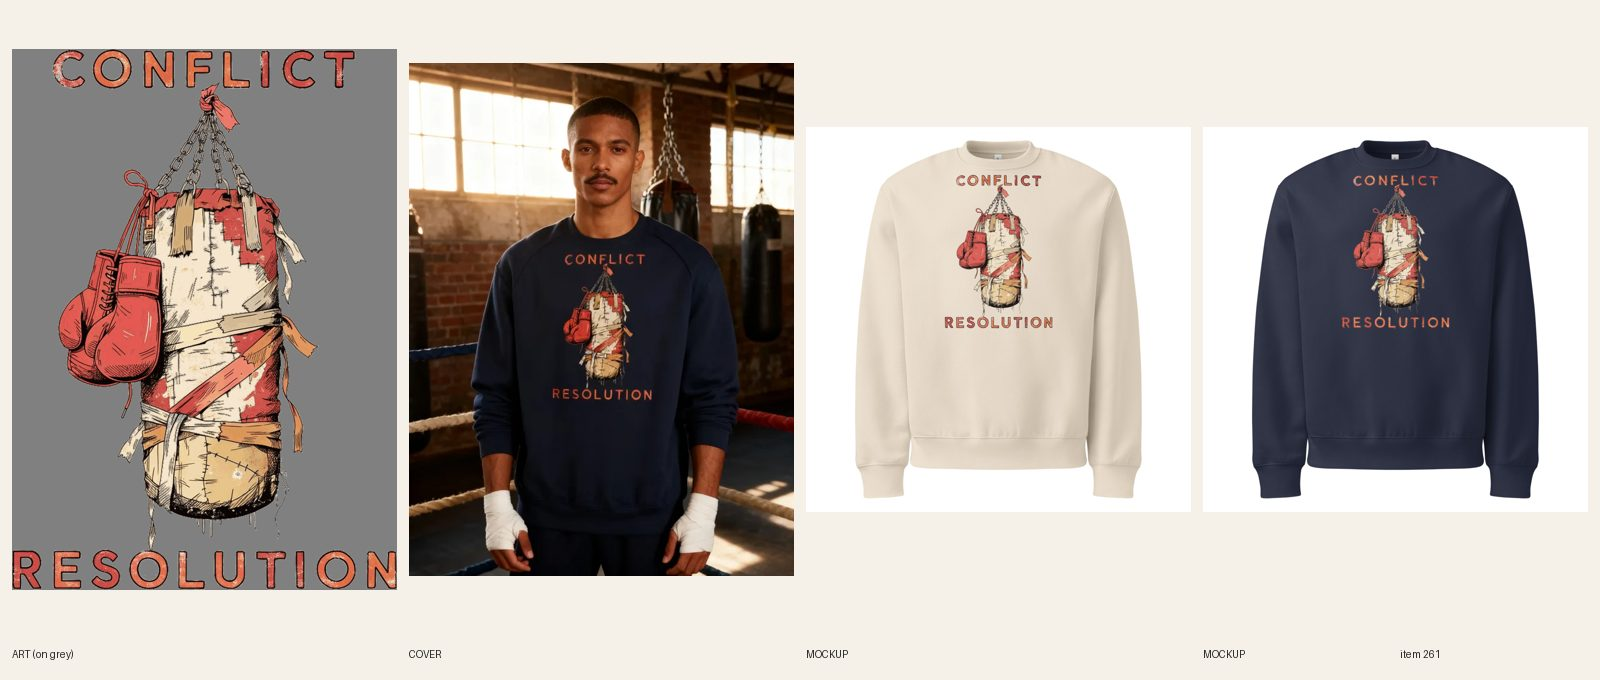
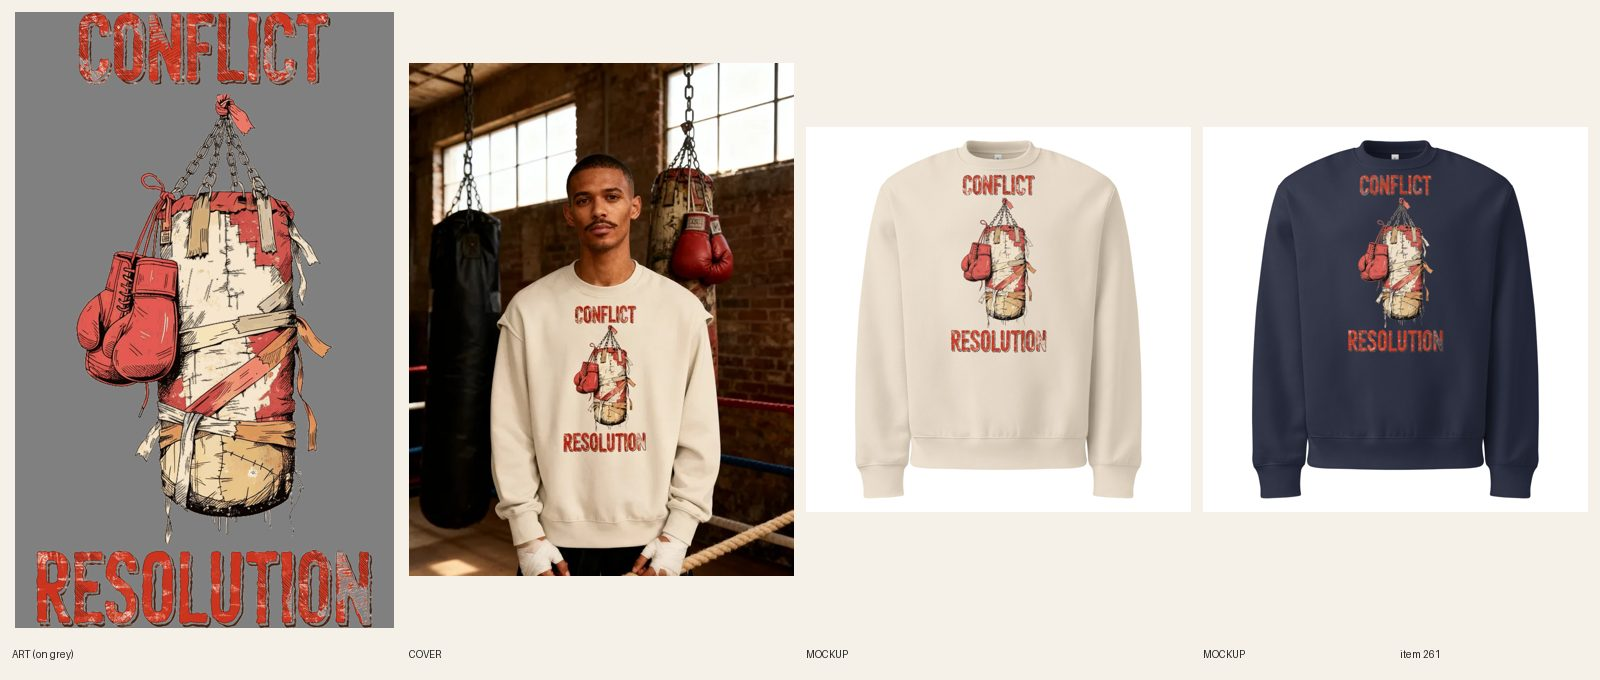
[B] REVIEW #261 redo (hand-lettered Conflict Resolution, new cover), #285 Morel Support embroidered hoodie
Claude-Session: https://claude.ai/code/session_018WH58ghRq1FWGpkcJVrUBA

Changed region(s): [[0.0, 0.0, 0.5, 0.9265], [0.8125, 0.2471, 0.9062, 0.525], [0.5938, 0.2471, 0.6562, 0.525]]

diff --git a/src/data/covers.ts b/src/data/covers.ts
@@ -277,6 +277,7 @@ export const covers: Record<string, { src: string; alt: string }> = {
   'womens-christian-casserole-ministry-crewneck-sweatshirt': { src: '/covers/womens-christian-casserole-ministry-crewneck-sweatshirt.webp', alt: 'Woman in her late 60s in a Sand Casserole Ministry crewneck sweatshirt in a church fellowship hall with potluck casserole dishes and a coffee urn behind her' },
   'womens-nurse-dont-say-the-q-word-crewneck-sweatshirt': { src: '/covers/womens-nurse-dont-say-the-q-word-crewneck-sweatshirt.webp', alt: 'Woman in her late 30s in a Sand Don't Say the Q Word crewneck sweatshirt and navy scrubs outside a hospital emergency entrance at dawn' },
   'womens-mama-i-have-followers-duck-crewneck-sweatshirt': { src: '/covers/womens-mama-i-have-followers-duck-crewneck-sweatshirt.webp', alt: 'Woman in her mid 30s in a Sand I Have Followers mama duck crewneck sweatshirt on a park pond path in fall with ducks on the water' },
+  'womens-embroidered-morel-support-mushroom-hoodie': { src: '/covers/womens-embroidered-morel-support-mushroom-hoodie.webp', alt: 'Woman in her early 30s with a platinum-blonde low bun in a Sand Morel Support embroidered mushroom hoodie on a fall forest trail with a foraging basket' },
 };
 
 export const coverFor = (handle: string) => covers[handle] ?? null;

diff --git a/docs/model-registry.md b/docs/model-registry.md
@@ -309,7 +309,7 @@ Rows 11–43 were re-pointed on 2026-10-08 when the briefs were rewritten from d
 | 422 | Japanese-American woman in her late 50s, salt-and-pepper hair in a short layered cut, soft smile lines | USED 2026-10-16 — #245 Nana's Cookies tee cover try 1 (from the Athletic Heather mockup) |
 | 423 | Black woman in her early 30s, natural afro puff, gold statement earrings | USED 2026-10-16 — #247 Snow Problem tee cover try 1 (from the White mockup) |
 | 424 | South Asian woman in her mid 20s, long wavy dark hair in a side part, nose stud | RESERVED — #248 Snow Problem crewneck cover |
-| 437 | Ethiopian-American man in his late 20s, close-cropped hair, thin mustache, wiry boxer's build | USED 2026-10-16 — #261 Conflict Resolution oversized sweatshirt cover (try 1, image 3 of 3) |
+| 437 | Ethiopian-American man in his late 20s, close-cropped hair, thin mustache, wiry boxer's build | USED 2026-10-16 — #261 Conflict Resolution oversized sweatshirt cover (redo: hand-lettered art, new cover try 1, image 2 of 3) |
 | 438 | Guatemalan-American woman in her late 20s, wavy dark hair in a loose half-up twist, gold-rimmed glasses | USED 2026-10-16 — #262 Plot Twist oversized sweatshirt cover (try 1, image 2 of 3) |
 | 439 | Cuban-American woman in her early 20s, dark curly hair in two puff buns, tiny gold huggie earrings | USED 2026-10-16 — #263 Not Toad-ay zip hoodie cover (try 1, image 2 of 3; back view) |
 | 440 | Chinese-American woman in her mid 20s, chin-length bob dyed lavender, silver hoops | USED 2026-10-16 — #264 Hot Mess Express zip hoodie cover (try 2, image 2 of 3: try 1 had the hood hidden and the print cut by the turn) |
@@ -351,6 +351,6 @@ Rows 11–43 were re-pointed on 2026-10-08 when the briefs were rewritten from d
 | 463 | Puerto Rican man in his early 30s, short curly black hair with a fade, goatee, muscular build | RESERVED — #282 Bulking Season tee cover |
 | 464 | Texan white woman in her late 20s, long honey-blonde waves, freckles, light tan | RESERVED — #283 Deck the Stalls tee cover |
 | 465 | Mexican-American woman in her early 40s, long dark hair in a thick side braid, small silver earrings | RESERVED — #284 Deck the Stalls crewneck cover |
-| 466 | Swedish-American woman in her early 30s, platinum-blonde low bun, no makeup, angular face | RESERVED — #285 Morel Support hoodie cover |
+| 466 | Swedish-American woman in her early 30s, platinum-blonde low bun, no makeup, angular face | USED 2026-10-16 — try 2 (try 1 spelled it moral on the chest), image 3 of 3; stitch lettering slightly soft |
 | 467 | Indian-American woman in her mid 20s, short black bob with blunt bangs, nose ring | RESERVED — #286 Purrsonal Space hoodie cover |
 | 468 | Ghanaian-American man in his mid 20s, shaved head, clean-shaven, very muscular build | RESERVED — #287 Sore Since 1987 oversized hoodie cover |

diff --git a/docs/pipeline/261-gym-oversized-sweatshirt-conflict-resolution.md b/docs/pipeline/261-gym-oversized-sweatshirt-conflict-resolution.md
@@ -1,4 +1,4 @@
-status: REDO
+status: REVIEW
 lane: B
 type: twin
 id: 261
@@ -25,3 +25,4 @@ handle: mens-gym-conflict-resolution-oversized-sweatshirt
 - 2026-10-16 23:19 UTC director: REDO (product stays DRAFT). Notes:
   1. R3.7.6 / R6.2: CONFLICT / RESOLUTION is a clean geometric sans with even spacing (typeset). Re-letter both words by hand (one Recraft lettering-only generation, composed in print-prep like #234), check on Dust and Navy, re-upload, resync, new mockups. The live tee stays as it is (R3.9).
   2. R6.8: one new cover after the art change; the garment must be the 4711's dropped shoulder (this cover shows raglan seams).
+- 2026-10-17 01:55 UTC [B]: REDO fix (round 1): CONFLICT / RESOLUTION re-lettered by hand (one Recraft v4 lettering-only generation, spelling checked, hand-cut distressed red-orange capitals), composed in print-prep over the bag art (old typeset words erased, enclosed counters knocked out), 3600 x 5855, new Printful file 1087915567 (FW 1400 TOP 0), resynced 12/12, front mockups replaced in place (Dust + Navy; checked on both), cover regenerated on the 4711 mockup (dropped shoulder, no raglan seams; one attempt, registry #437 image 2 of 3). Sheet docs/review/261.jpg. Set REVIEW.

diff --git a/docs/pipeline/285-embroidered-hoodie-morel-support.md b/docs/pipeline/285-embroidered-hoodie-morel-support.md
@@ -1,4 +1,4 @@
-status: READY
+status: REVIEW
 lane: B
 type: twin
 id: 285
@@ -18,3 +18,4 @@ handle: womens-embroidered-morel-support-mushroom-hoodie
 ---
 ## Log
 - 2026-10-16 23:24 UTC director: brief written, READY (lane B cold-weather, director run 11).
+- 2026-10-17 02:05 UTC [B]: built as DRAFT (product 15362607055152, 12 variants Sand + Ash S-3XL, $44.99/$49.99 = pullover $39.99 + $5 chest, Gildan 18500 #146, embroidery_chest_center, DTG back logo kept). Twin of #194: reused the chest embroidery file 1087862305 (black thread #000000, 3.33 x 3.42 in), no new art. Mockups via pf-emb-mockup.py (styles 1402/1403). Cover registry #466 (try 2: try 1 spelled it 'moral support' on the chest, try 2 reads morel, image 3 of 3; stitch lettering slightly soft), keyword mushroom hoodie 880/39, audit-local result above. Sync pid 482357450, 12/12. Sheet docs/review/285.jpg.
